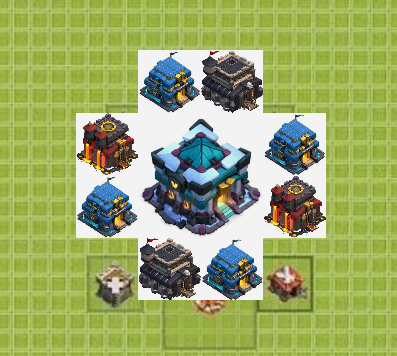
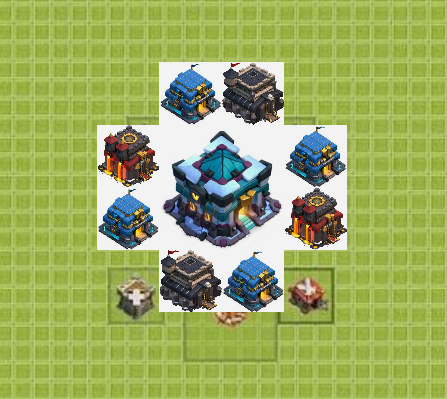
Attack , Show Heros , Done Maps

diff --git a/End/src/main/java/com/example/controller/Attack.java b/End/src/main/java/com/example/controller/Attack.java
@@ -1,13 +1,80 @@
 package com.example.controller;
 
+import com.example.HelloApplication;
+import com.example.model.building.BombBuilding;
+import com.example.model.building.Location;
+import com.example.model.hero.Archer;
+import com.example.model.player.Players;
+import javafx.fxml.FXML;
+import javafx.fxml.FXMLLoader;
 import javafx.fxml.Initializable;
+import javafx.scene.Node;
+import javafx.scene.Scene;
+import javafx.scene.image.ImageView;
+import javafx.scene.input.MouseEvent;
+import javafx.scene.text.Text;
+import javafx.stage.Stage;
 
+import java.io.File;
+import java.io.IOException;
 import java.net.URL;
 import java.util.ResourceBundle;
 
 public class Attack implements Initializable {
     @Override
     public void initialize(URL url, ResourceBundle resourceBundle) {
+        number.setText("" + Players.getPlayers().get(ThisPlayer.getIndexEnemy()).getMap().getNumberOfHero());
+        if (ThisPlayer.getPlayer().getMap().getName().equals("A")) {
+            Location location = new Location(1, 2, 3, 4);
+            map.setImage(new Archer(location).getImageView().getImage());
+        } else if (ThisPlayer.getPlayer().getMap().getName().equals("B")) {
+        } else if (ThisPlayer.getPlayer().getMap().getName().equals("C")) {
+        } else if (ThisPlayer.getPlayer().getMap().getName().equals("D")) {
+        }
+    }
 
+    @FXML
+    private ImageView map;
+
+    @FXML
+    private Text number;
+
+
+    @FXML
+    void back(MouseEvent event) throws IOException {
+        FXMLLoader fxmlLoader = new FXMLLoader(HelloApplication.class.getResource("Panel.fxml"));
+        Scene scene = new Scene(fxmlLoader.load());
+        Stage stage = (Stage) ((Node) (event.getSource())).getScene().getWindow();
+        stage.setScene(scene);
+        stage.show();
+    }
+
+    @FXML
+    void before(MouseEvent event) throws IOException {
+        if (ThisPlayer.getIndexEnemy() > 0) {
+            ThisPlayer.setIndexEnemy(ThisPlayer.getIndexEnemy() - 1);
+            FXMLLoader fxmlLoader = new FXMLLoader(HelloApplication.class.getResource("Attack.fxml"));
+            Scene scene = new Scene(fxmlLoader.load());
+            Stage stage = (Stage) ((Node) (event.getSource())).getScene().getWindow();
+            stage.setScene(scene);
+            stage.show();
+        }
+    }
+
+    @FXML
+    void fight(MouseEvent event) {
+
+    }
+
+    @FXML
+    void next(MouseEvent event) throws IOException {
+        if (ThisPlayer.getIndexEnemy() != Players.getPlayers().size() - 1) {
+            ThisPlayer.setIndexEnemy(ThisPlayer.getIndexEnemy() + 1);
+            FXMLLoader fxmlLoader = new FXMLLoader(HelloApplication.class.getResource("Attack.fxml"));
+            Scene scene = new Scene(fxmlLoader.load());
+            Stage stage = (Stage) ((Node) (event.getSource())).getScene().getWindow();
+            stage.setScene(scene);
+            stage.show();
+        }
     }
 }

diff --git a/End/src/main/java/com/example/controller/Panel.java b/End/src/main/java/com/example/controller/Panel.java
@@ -1,19 +1,18 @@
 package com.example.controller;
 
 import com.example.HelloApplication;
-import com.example.model.player.ThisPlayer;
+import com.example.model.player.Player;
+import com.example.model.player.Players;
 import javafx.fxml.FXML;
 import javafx.fxml.FXMLLoader;
 import javafx.fxml.Initializable;
 import javafx.scene.Node;
-import javafx.scene.Parent;
 import javafx.scene.Scene;
 import javafx.scene.input.MouseEvent;
 import javafx.stage.Stage;
 
 import java.io.IOException;
 import java.net.URL;
-import java.util.Objects;
 import java.util.ResourceBundle;
 
 public class Panel implements Initializable {
@@ -23,14 +22,34 @@ public class Panel implements Initializable {
     }
 
     @FXML
-    void attack(MouseEvent event) {
-
+    void attack(MouseEvent event) throws IOException {
+        ThisPlayer.setIndexEnemy(0);
+        FXMLLoader fxmlLoader = new FXMLLoader(HelloApplication.class.getResource("Attack.fxml"));
+        Scene scene = new Scene(fxmlLoader.load());
+        Stage stage = (Stage) ((Node) (event.getSource())).getScene().getWindow();
+        stage.setScene(scene);
+        stage.show();
     }
 
     @FXML
-    void hero(MouseEvent event) {
-
+    void hero(MouseEvent event) throws IOException {
+        FXMLLoader fxmlLoader = new FXMLLoader(HelloApplication.class.getResource("Heros.fxml"));
+        Scene scene = new Scene(fxmlLoader.load());
+        Stage stage = (Stage) ((Node) (event.getSource())).getScene().getWindow();
+        stage.setScene(scene);
+        stage.show();
     }
+
+    @FXML
+    void logOut(MouseEvent event) throws IOException {
+        ThisPlayer.setPlayer(null);
+        FXMLLoader fxmlLoader = new FXMLLoader(HelloApplication.class.getResource("SighLog.fxml"));
+        Scene scene = new Scene(fxmlLoader.load());
+        Stage stage = (Stage) ((Node) (event.getSource())).getScene().getWindow();
+        stage.setScene(scene);
+        stage.show();
+    }
+
 
     @FXML
     void info(MouseEvent event) throws IOException {
@@ -44,7 +63,6 @@ public class Panel implements Initializable {
     @FXML
     void map(MouseEvent event) throws IOException {
         FXMLLoader fxmlLoader = null;
-        System.out.println(ThisPlayer.getPlayer().getMap().getName());
         if (ThisPlayer.getPlayer().getMap().getName().equals("A")) {
             fxmlLoader = new FXMLLoader(HelloApplication.class.getResource("MapA.fxml"));
         } else if (ThisPlayer.getPlayer().getMap().getName().equals("B")) {

diff --git a/End/src/main/java/com/example/controller/SighIn.java b/End/src/main/java/com/example/controller/SighIn.java
@@ -3,12 +3,10 @@ package com.example.controller;
 import com.example.HelloApplication;
 import com.example.model.player.Player;
 import com.example.model.player.Players;
-import com.example.model.player.ThisPlayer;
 import javafx.fxml.FXML;
 import javafx.fxml.FXMLLoader;
 import javafx.fxml.Initializable;
 import javafx.scene.Node;
-import javafx.scene.Parent;
 import javafx.scene.Scene;
 import javafx.scene.control.Alert;
 import javafx.scene.control.TextField;
@@ -17,7 +15,6 @@ import javafx.stage.Stage;
 
 import java.io.IOException;
 import java.net.URL;
-import java.util.Objects;
 import java.util.ResourceBundle;
 import java.util.regex.Matcher;
 import java.util.regex.Pattern;

diff --git a/End/src/main/java/com/example/controller/LogIn.java b/End/src/main/java/com/example/controller/LogIn.java
@@ -3,12 +3,10 @@ package com.example.controller;
 import com.example.HelloApplication;
 import com.example.model.player.Player;
 import com.example.model.player.Players;
-import com.example.model.player.ThisPlayer;
 import javafx.fxml.FXML;
 import javafx.fxml.FXMLLoader;
 import javafx.fxml.Initializable;
 import javafx.scene.Node;
-import javafx.scene.Parent;
 import javafx.scene.Scene;
 import javafx.scene.control.Alert;
 import javafx.scene.control.TextField;
@@ -17,7 +15,6 @@ import javafx.stage.Stage;
 
 import java.io.IOException;
 import java.net.URL;
-import java.util.Objects;
 import java.util.ResourceBundle;
 
 public class LogIn implements Initializable {

diff --git a/End/src/main/java/com/example/controller/ThisPlayer.java b/End/src/main/java/com/example/controller/ThisPlayer.java
@@ -1,0 +1,24 @@
+package com.example.controller;
+
+import com.example.model.player.Player;
+
+public class ThisPlayer {
+    static private Player player;
+    static private  int indexEnemy ;
+
+    public static void setIndexEnemy(int indexEnemy) {
+        ThisPlayer.indexEnemy = indexEnemy;
+    }
+
+    public static int getIndexEnemy() {
+        return indexEnemy;
+    }
+
+    public static Player getPlayer() {
+        return player;
+    }
+
+    public static void setPlayer(Player player) {
+        ThisPlayer.player = player;
+    }
+}

diff --git a/End/src/main/java/com/example/controller/Heros.java b/End/src/main/java/com/example/controller/Heros.java
@@ -1,6 +1,8 @@
 package com.example.controller;
 
+import javafx.fxml.FXML;
 import javafx.fxml.Initializable;
+import javafx.scene.input.MouseEvent;
 
 import java.net.URL;
 import java.util.ResourceBundle;
@@ -8,6 +10,15 @@ import java.util.ResourceBundle;
 public class Heros implements Initializable {
     @Override
     public void initialize(URL url, ResourceBundle resourceBundle) {
+
+    }
+    @FXML
+    void buildings(MouseEvent event) {
+
+    }
+
+    @FXML
+    void heros(MouseEvent event) {
 
     }
 }

diff --git a/End/src/main/java/com/example/controller/ChoseMap.java b/End/src/main/java/com/example/controller/ChoseMap.java
@@ -3,13 +3,11 @@ package com.example.controller;
 import com.example.HelloApplication;
 import com.example.model.player.Player;
 import com.example.model.player.Players;
-import com.example.model.player.ThisPlayer;
 import javafx.fxml.FXMLLoader;
 import javafx.fxml.Initializable;
 import javafx.fxml.FXML;
 import javafx.scene.Node;
 import javafx.scene.Scene;
-import javafx.scene.image.ImageView;
 import javafx.scene.input.MouseEvent;
 import javafx.stage.Stage;
 

diff --git a/End/src/main/java/com/example/model/map/Map.java b/End/src/main/java/com/example/model/map/Map.java
@@ -5,8 +5,17 @@ import com.example.model.building.Building;
 import java.util.ArrayList;
 
 public class Map {
-
+    private int numberOfHero;
     private String name;
+
+    public int getNumberOfHero() {
+        return numberOfHero;
+    }
+
+    public void setNumberOfHero(int numberOfHero) {
+        this.numberOfHero = numberOfHero;
+    }
+
     private ArrayList<Building> buildings = new ArrayList<>();
 
     public ArrayList<Building> getBuildings() {

diff --git a/End/src/main/java/com/example/model/hero/Hero.java b/End/src/main/java/com/example/model/hero/Hero.java
@@ -43,4 +43,8 @@ abstract public class Hero {
     public void setTimeBetween(long timeBetween) {
         this.timeBetween = timeBetween;
     }
+
+    public ImageView getImageView() {
+        return imageView;
+    }
 }

diff --git a/End/src/main/java/com/example/controller/Info.java b/End/src/main/java/com/example/controller/Info.java
@@ -1,6 +1,5 @@
 package com.example.controller;
 
-import com.example.model.player.ThisPlayer;
 import javafx.fxml.FXML;
 import javafx.fxml.Initializable;
 import javafx.scene.text.Text;

diff --git a/End/src/main/java/com/example/model/map/MapD.java b/End/src/main/java/com/example/model/map/MapD.java
@@ -45,5 +45,7 @@ public class MapD extends Map {
 
         setBuildings(buildings);
         setName("D");
+        setNumberOfHero(17);
+
     }
 }

diff --git a/End/src/main/java/com/example/model/map/MapB.java b/End/src/main/java/com/example/model/map/MapB.java
@@ -48,5 +48,7 @@ public class MapB extends Map{
 
         setBuildings(buildings);
         setName("B");
+        setNumberOfHero(19);
+
     }
 }
